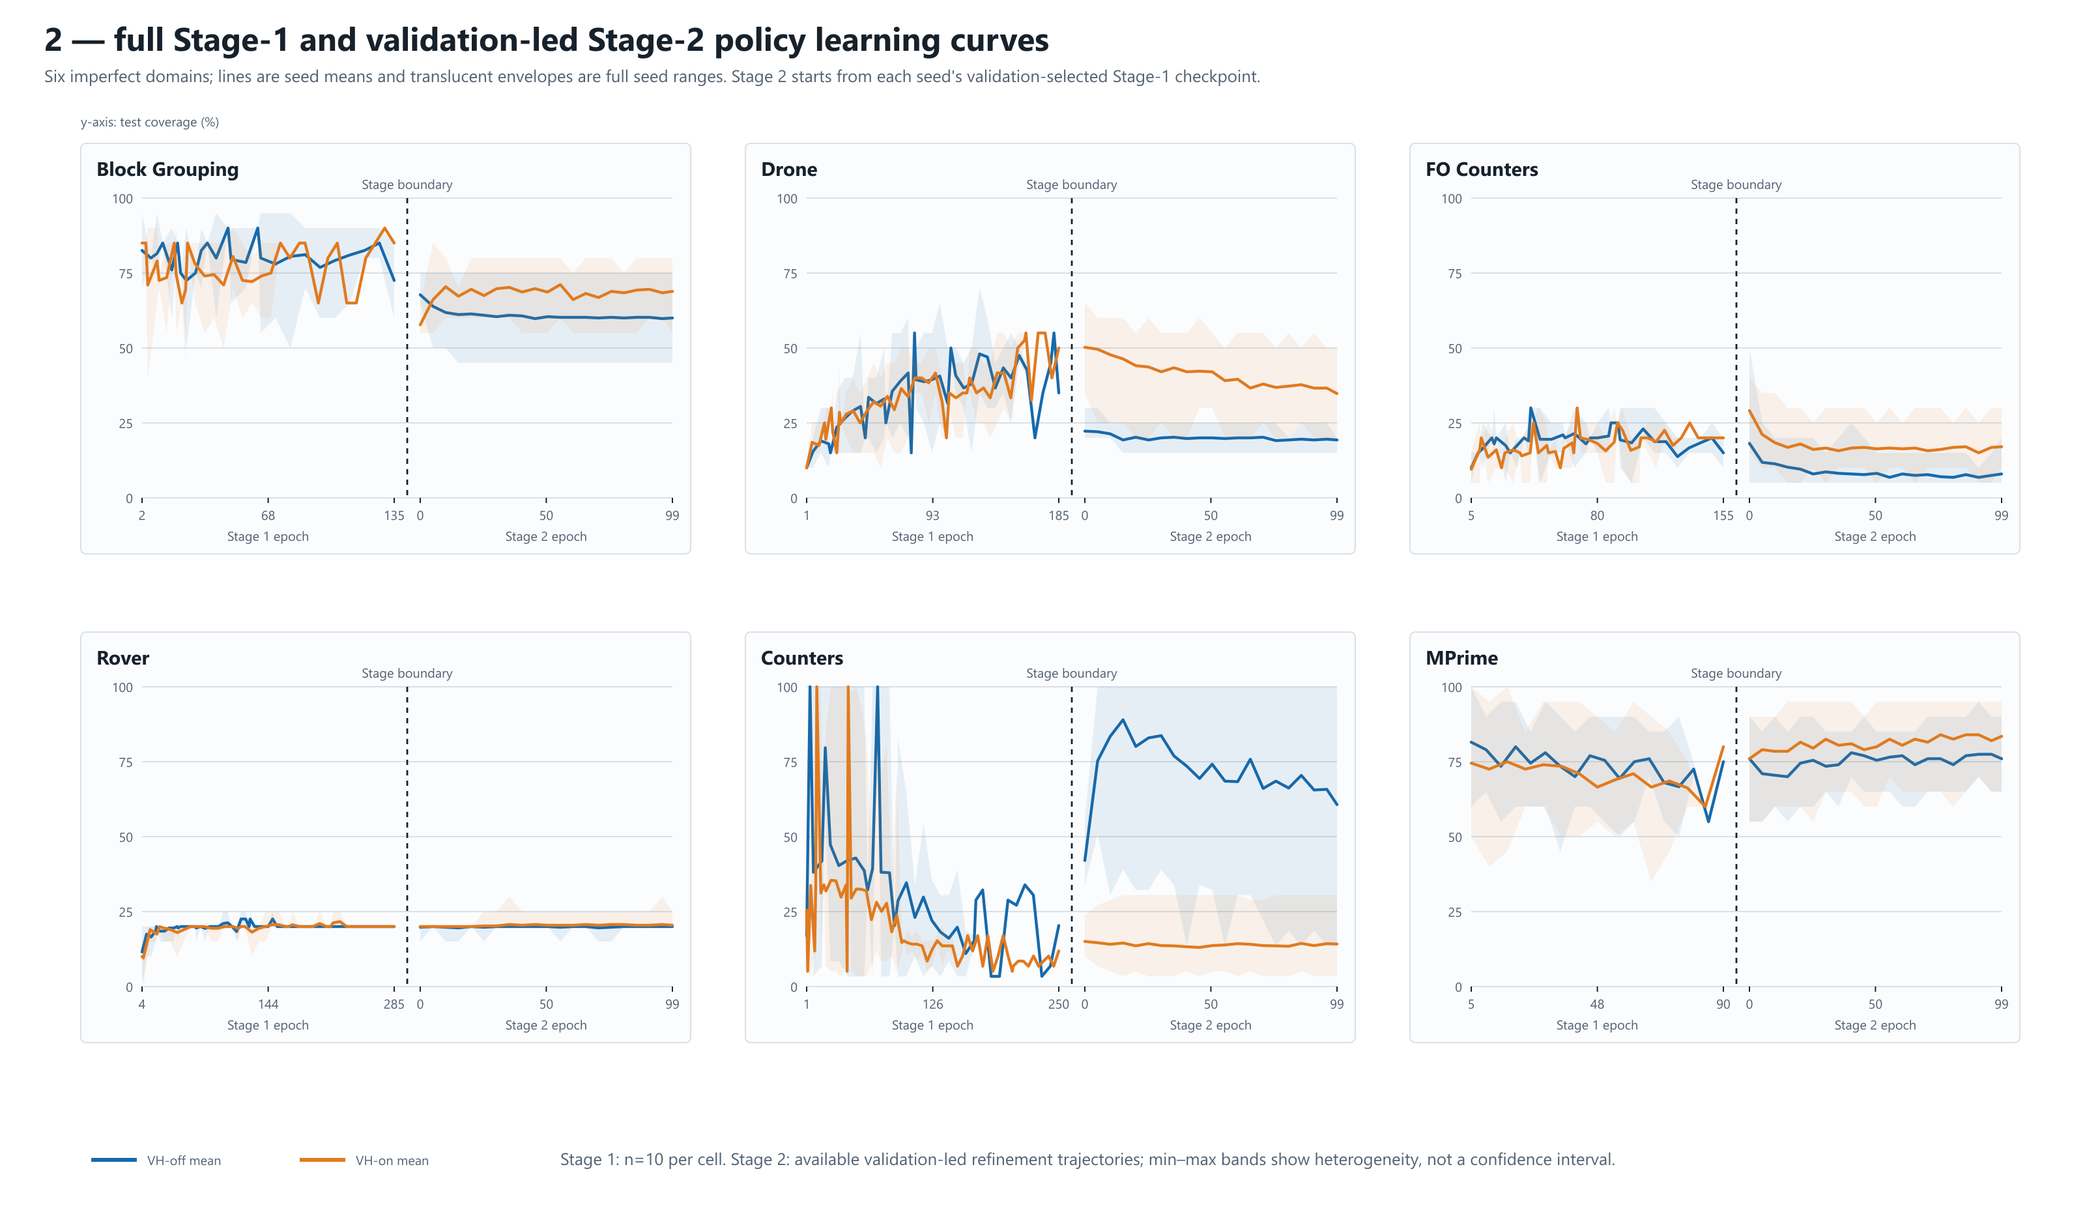
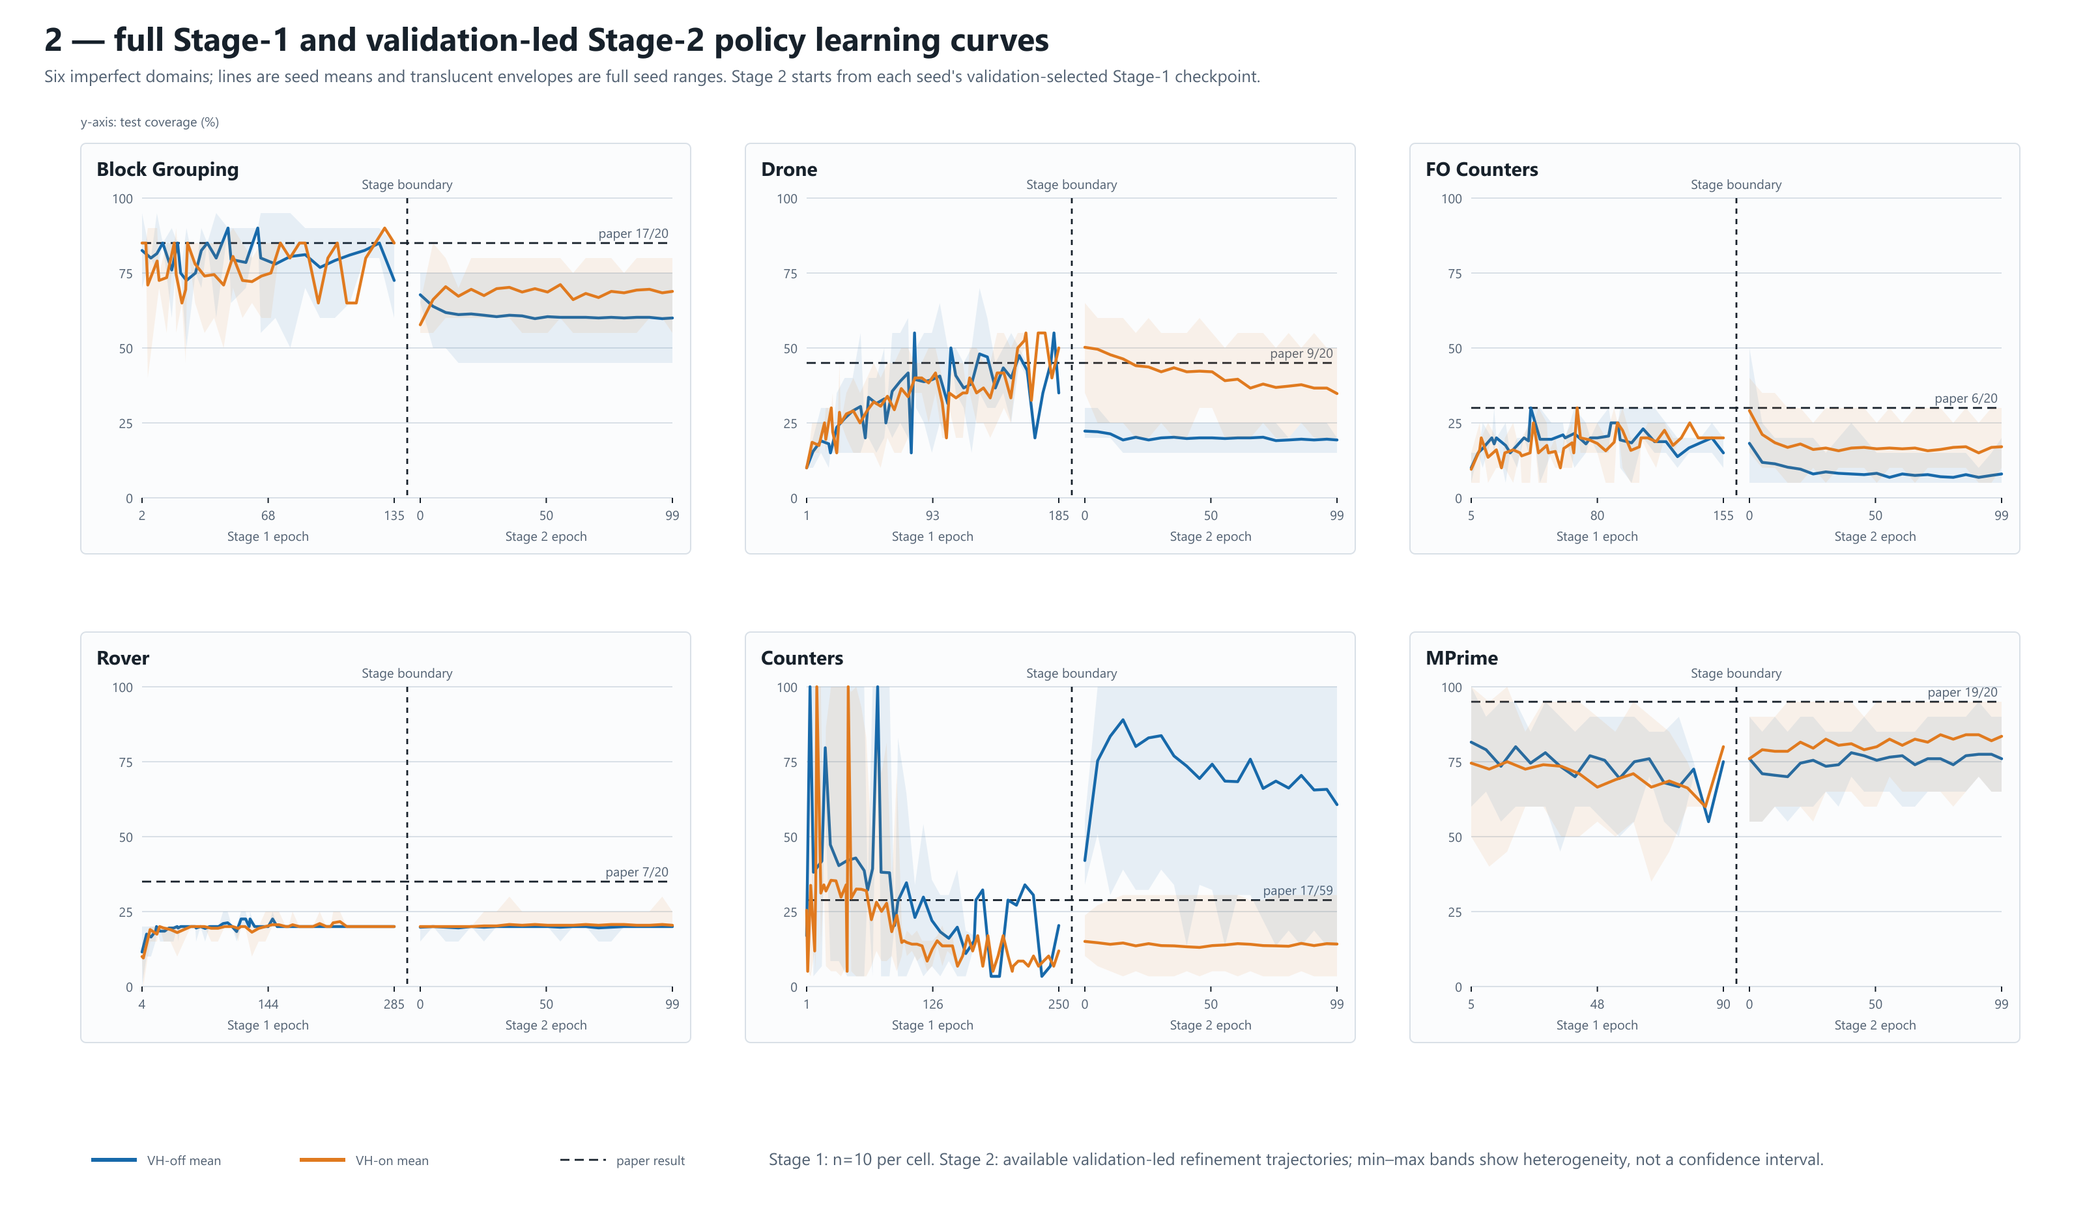
docs: refine advisor figures and PW narrative

diff --git a/scripts/build_advisor_meeting_plots_after_review_20260910.py b/scripts/build_advisor_meeting_plots_after_review_20260910.py
@@ -75,48 +75,51 @@ def save(name: str, parts: list[str]) -> None:
     (OUT / f"{name}.svg").write_text("".join(parts + ["</svg>"]), encoding="utf-8")
 
 
-# 1. Exact, unclipped scorecard. This remains explicitly exploratory because
-# it compares each domain's best observed method rather than one shared method.
-rows = read(BEFORE / "01_domain_scorecard.csv")
+# 1. VH-separated scorecard. The baseline is defined explicitly as the mean
+# test score of each seed's validation-selected Stage-1 checkpoint.
+rows = read(OUT / "01_domain_scorecard_by_vh.csv")
 parts = start(
-    1780, 730, "1 — best observed coverage by domain",
-    "Exploratory best-of-method scorecard. Bars are mean test coverage across the available matched seed set; exact solved/total counts are shown.",
+    1840, 790, "1 — Stage-1 baseline and best observed coverage, separated by value-head mode",
+    "Stage-1 baseline = mean test coverage of each seed's validation-selected Stage-1 checkpoint (n=10 per cell). Best observed may use a different method per cell.",
 )
-x0, x1, y0, row_height = 280, 1120, 118, 60
-for tick in (0, 25, 50, 75, 100):
-    x = x0 + tick / 100 * (x1 - x0)
-    parts += [line(x, y0 - 20, x, y0 + 9 * row_height - 12, GRID), text(x, y0 - 28, f"{tick}%", "small", "middle")]
-for i, row in enumerate(rows):
-    y = y0 + i * row_height
-    total = int(float(row["capacity"]))
-    values = [
-        ("Published Numeric ASNet", float(row["paper_percent"]), "#9aa5b1", float(row["paper_reported"])),
-        ("Stage-1 policy", float(row["stage1_percent"]), ORANGE, float(row["matched_stage1_policy"])),
-        ("Best observed", float(row["best_percent"]), GREEN, float(row["result_6h_or_policy"])),
-    ]
-    parts.append(text(x0 - 15, y + 27, LABEL[row["domain"]], "label", "end"))
-    for j, (_, value, color, exact) in enumerate(values):
-        parts.append(rect(x0, y + j * 12, (x1 - x0) * value / 100, 9, color, radius=2))
-        parts.append(text(x0 + (x1 - x0) * value / 100 + 6, y + j * 12 + 8, f"{exact:.1f}/{total}", "small"))
-    config = row["best_current_configuration"]
-    if len(config) > 62:
-        split = config.rfind(" ", 0, 62)
-        split = 62 if split < 20 else split
-        parts.append(text(1200, y + 17, config[:split], "small"))
-        parts.append(text(1200, y + 32, config[split:].strip(), "small"))
-    else:
-        parts.append(text(1200, y + 25, config, "small"))
+for panel, value_head in enumerate(("off", "on")):
+    px, py, pw, ph = 45 + panel * 900, 105, 850, 595
+    x0, x1, y0, row_height = px + 145, px + 650, py + 55, 58
+    parts += [rect(px, py, pw, ph, "#fbfcfd", GRID, 5), text(px + 18, py + 30, f"VH-{value_head}", "big")]
+    for tick in (0, 25, 50, 75, 100):
+        x = x0 + tick / 100 * (x1 - x0)
+        parts += [line(x, y0 - 22, x, y0 + 9 * row_height - 18, GRID), text(x, y0 - 29, f"{tick}%", "small", "middle")]
+    panel_rows = [row for row in rows if row["value_head"] == value_head]
+    for i, row in enumerate(panel_rows):
+        y = y0 + i * row_height
+        total = int(row["capacity"])
+        baseline = float(row["stage1_validation_selected"])
+        best = float(row["best_observed"])
+        published = float(row["paper_reported"])
+        to_percent = lambda score: score / total * 100
+        paper_x = x0 + to_percent(published) / 100 * (x1 - x0)
+        parts += [
+            text(x0 - 12, y + 17, LABEL[row["domain"]], "small", "end"),
+            rect(x0, y, (x1 - x0) * to_percent(baseline) / 100, 10, ORANGE, radius=2),
+            rect(x0, y + 14, (x1 - x0) * to_percent(best) / 100, 10, GREEN, radius=2),
+            line(paper_x, y - 3, paper_x, y + 27, INK, 1.6, "3 2"),
+            text(x0 + (x1 - x0) * to_percent(baseline) / 100 + 5, y + 9, f"S1 {baseline:g}/{total}", "small"),
+            text(x0 + (x1 - x0) * to_percent(best) / 100 + 5, y + 23, f"best {best:g}/{total}", "small"),
+            text(x0, y + 39, f"best method: {row['best_configuration']}", "small"),
+        ]
 parts += [
-    rect(280, 675, 18, 9, "#9aa5b1"), text(305, 684, "published result", "small"),
-    rect(420, 675, 18, 9, ORANGE), text(445, 684, "best Stage-1 policy", "small"),
-    rect(590, 675, 18, 9, GREEN), text(615, 684, "best observed configuration", "small"),
-    text(980, 684, "Headline: clear coverage gains in Drone, FO Counters and Counters; stable domains remain near ceiling.", "sub"),
+    rect(70, 735, 18, 9, ORANGE), text(96, 744, "validation-selected Stage-1 policy baseline", "small"),
+    rect(365, 735, 18, 9, GREEN), text(391, 744, "best observed configuration", "small"),
+    line(615, 730, 615, 750, INK, 1.6, "3 2"), text(625, 744, "published domain mean (not VH-separated)", "small"),
+    text(980, 744, "Exact solved/total labels are means across matched seeds; Counters uses 59 instances, all other domains use 20.", "sub"),
 ]
 save("01_domain_scorecard", parts)
 
 
 # 2. True Stage-1 and Stage-2 curves with explicit stage-local epoch axes.
 curves = read(BEFORE / "02_two_stage_learning_dynamics.csv")
+paper_rows = read(BEFORE / "01_domain_scorecard.csv")
+paper_by_domain = {row["domain"]: (float(row["paper_reported"]), int(row["capacity"])) for row in paper_rows}
 parts = start(
     1600, 940, "2 — full Stage-1 and validation-led Stage-2 policy learning curves",
     "Six imperfect domains; lines are seed means and translucent envelopes are full seed ranges. Stage 2 starts from each seed's validation-selected Stage-1 checkpoint.",
@@ -135,6 +138,9 @@ for panel, domain in enumerate(["block_grouping", "drone", "fo_counters", "rover
         line(boundary, top, boundary, bottom, INK, 1.4, "4 4"),
         text(boundary, top - 7, "Stage boundary", "small", "middle"),
     ]
+    paper_score, paper_total = paper_by_domain[domain]
+    paper_y = bottom - (paper_score / paper_total * 100) / 100 * (bottom - top)
+    parts += [line(left, paper_y, right, paper_y, INK, 1.4, "7 4"), text(right - 3, paper_y - 4, f"paper {paper_score:g}/{paper_total}", "small", "end")]
     for stage, xa, xb in (("stage1", left, boundary - 10), ("stage2", boundary + 10, right)):
         stage_rows = [r for r in curves if r["domain"] == domain and r["stage"] == stage]
         epochs = [int(r["epoch"]) for r in stage_rows]
@@ -165,7 +171,8 @@ for panel, domain in enumerate(["block_grouping", "drone", "fo_counters", "rover
 parts += [
     line(70, 890, 105, 890, BLUE, 3), text(113, 894, "VH-off mean", "small"),
     line(230, 890, 265, 890, ORANGE, 3), text(273, 894, "VH-on mean", "small"),
-    text(430, 894, "Stage 1: n=10 per cell. Stage 2: available validation-led refinement trajectories; min–max bands show heterogeneity, not a confidence interval.", "sub"),
+    line(430, 890, 465, 890, INK, 1.4, "7 4"), text(473, 894, "paper result", "small"),
+    text(590, 894, "Stage 1: n=10 per cell. Stage 2: available validation-led refinement trajectories; min–max bands show heterogeneity, not a confidence interval.", "sub"),
 ]
 save("02_two_stage_learning_dynamics", parts)
 
@@ -255,8 +262,8 @@ forest_plot("Stage 2", "03b_stage2_mcts_cutoff_forest", "3b — Stage-2 policy v
 # definition of the experiment and of preservation.
 preserve = read(BEFORE / "04_preserve3_validation_seed_robustness.csv")
 parts = start(
-    1400, 710, "4 — PRESERVE-3 validation-led seed robustness",
-    "Delivery, TPP and Zenotravel began near ceiling. Each point is one matched seed's change in solved test instances from Stage 1 to validation-led Stage 2.",
+    1400, 710, "4 — PRESERVE-3 seed robustness",
+    "Delivery, TPP and Zenotravel began near ceiling. Each point is one matched seed's change in solved test instances from Stage 1 to Stage 2.",
 )
 left, right, top = 300, 1140, 135
 scale = lambda value: left + (value + 12) / 20 * (right - left)

diff --git a/experiment_tracking/mcts_progressive_widening_cross_domain/progressive_widening_overall_report_20260909.md b/experiment_tracking/mcts_progressive_widening_cross_domain/progressive_widening_overall_report_20260909.md
@@ -1,0 +1,136 @@
+# Progressive widening: complete experiment narrative
+
+This report distinguishes PW20 and PW70. They are never pooled. `PW20` means
+20 MCTS simulations per external action; `PW70` means 70 simulations. The
+standard promoted schedule is `Kmin=3`, `c=0.6`, `alpha=0.5`, `Kmax=20`, with
+SAFE external action selection.
+
+## Why progressive widening was tested
+
+Fixed top-k search creates every permitted child immediately. Progressive
+widening begins with a small policy-ranked action set and admits additional
+actions as visits accumulate. The intended trade-off was to preserve most or
+all of fixed-search coverage while reducing generated states, retained nodes,
+memory and runtime.
+
+## Experiment sequence
+
+1. **Drone pilot, 10 matched seeds per arm.** Compared fixed top-5, historical
+   fixed top-20, PW `c=0.6`, and PW `c=1.0`, all with 70 simulations.
+2. **Drone sensitivity.** Tested SAFE-PW baseline, `alpha=0.65`, 140
+   simulations and `Kmin=3`. Kmin=3 was the only promising direction and was
+   expanded to four matched seeds per VH mode.
+3. **Cross-domain two-seed screen.** Block Grouping and Counters accidentally
+   used PW20 because they inherited the narrow 5/20 comparator budget. FO
+   Counters and Rover correctly used PW70. This incident is documented and the
+   budgets remain explicitly separated.
+4. **Corrected PW70 screen.** Reran Block Grouping and Counters with 70
+   simulations.
+5. **Five- then ten-seed PW70 confirmation.** Promoted FO Counters and Rover to
+   ten matched seeds per VH mode. Counters Stage-2 received five-seed PW70
+   confirmation but did not qualify for further expansion.
+6. **Focused diagnostics.** Tested PW20/PW70 on three exact Counters snapshots
+   where fixed narrow search lost policy successes, and all four search
+   variants on the catastrophic TPP/off seed.
+
+## Drone: efficiency gain, insufficient coverage
+
+| Arm | n | Mean coverage | Mean whole-job runtime | Change versus fixed top-20 |
+|---|---:|---:|---:|---:|
+| Historical fixed top-20 | 10 | 8.6/20 | 11.83h | baseline |
+| Fixed top-5 | 10 | 8.7/20 | 11.24h | +0.1 |
+| PW70, c=0.6 | 10 | 6.7/20 | 8.12h | -1.9; 95% CI [-3.35,-0.45] |
+| PW70, c=1.0 | 10 | 6.2/20 | 5.03h | -2.4; 95% CI [-3.92,-0.88] |
+
+The original PW schedules were genuinely cheaper: retained nodes fell from
+3,622,099 for fixed top-5 to 692,524 (`c=.6`) and 319,398 (`c=1.0`). The price
+was a statistically significant coverage loss.
+
+Kmin=3 improved the balance:
+
+| Arm | n | Mean coverage | Mean whole-job runtime |
+|---|---:|---:|---:|
+| Policy | 8 | 7.0/20 | 0.066h |
+| Fixed top-20 | 8 | 10.5/20 | 11.76h |
+| PW70 Kmin=3 | 8 | 9.5/20 | 9.99h |
+
+Successful-instance runtime distributions show where the efficiency gain lies:
+
+| Arm | Successful instances | Median | Mean | P90 | Maximum |
+|---|---:|---:|---:|---:|---:|
+| Fixed top-20 | 84 | 130s | 395s | 893s | 6,127s |
+| PW70 Kmin=3 | 76 | 94s | 147s | 318s | 594s |
+
+Kmin=3 therefore shortened the successful-instance tail substantially, but
+still solved eight fewer matched instances than fixed search. Drone does not
+support replacing fixed MCTS with this PW schedule.
+
+## Block Grouping and Counters screen
+
+PW20 was useful as a budget-matched narrow-search diagnostic, not as evidence
+about standard PW70. Block Grouping was unpromising: it did not improve
+coverage consistently and often increased whole-job runtime. For example,
+BG/off fixed 5/20 averaged about 7h39m versus 12h26m for PW20; BG/on averaged
+8h38m versus 9h22m.
+
+The time was not primarily Python selection. In the instrumented BG PW20 jobs,
+successor generation used 55.2% of completed wall time, estimator/evaluation
+32.4%, network inference 6.9%, selection 4.4%, and backpropagation 0.3%.
+
+Counters produced isolated strong recoveries—most notably one Stage-2/off seed
+where policy and PW20 scored 59/59 while fixed narrow scored 49/59, with PW20
+finishing in 3h47m versus 18h05m fixed. Across five PW70 seeds, however:
+
+| VH | Policy | Fixed narrow 30m / 2h / 6h | PW70 30m / 2h / 6h | Conclusion |
+|---|---:|---:|---:|---|
+| off | 37.8/59 | 34.6 / 36.4 / 36.4 | 29.4 / 33.6 / 36.4 | Fixed parity only at 6h; below policy |
+| on | 32.4/59 | 27.4 / 34.2 / 35.6 | 22.0 / 28.4 / 31.4 | Below policy and fixed |
+
+Thus, PW can repair particular narrow-search failures but was not reliably the
+best Counters configuration.
+
+## Ten-seed PW70 result: FO Counters succeeds, Rover reaches parity
+
+| Cell | Policy | Fixed 30m / 2h / 6h | PW70 30m / 2h / 6h | PW-policy 6h [95% CI]; Holm p | Conclusion |
+|---|---:|---:|---:|---|---|
+| FO/off | 4.2 | 7.5 / 7.8 / 7.8 | 8.4 / 8.4 / 8.4 | +4.2 [3.26,5.14]; .008 | Significant gain; fixed parity |
+| FO/on | 3.7 | 5.3 / 5.7 / 5.7 | 7.3 / 7.3 / 7.3 | +3.6 [2.70,4.50]; .008 | Significant gain; higher mean than fixed |
+| Rover/off | 4.0 | 4.8 / 5.0 / 5.0 | 4.7 / 4.7 / 4.7 | +0.7 [.02,1.38]; .250 | Fixed parity; not significant |
+| Rover/on | 3.8 | 4.4 / 4.4 / 4.4 | 4.5 / 4.6 / 4.6 | +0.8 [-.08,1.68]; .250 | Fixed parity; not significant |
+
+Almost all successful FO/Rover PW70 plans were already found inside 30 minutes:
+FO is identical at 30m, 2h and 6h; Rover/on adds only 0.1 plan after 30m. Whole
+allocations nevertheless ranged from roughly 7.5h to 28h because unsuccessful
+instances can consume long timeouts. This separates **time to find successful
+plans** from **time to certify failures**.
+
+FO/off currently includes the declared 7/20 OOM-partial seed with one
+unclassified instance counted unsuccessful. Exact recovery of that instance is
+running separately; a success would raise the ten-seed mean from 8.4 to 8.5.
+
+## Focused negative diagnostics
+
+- On three Counters snapshots where fixed narrow search lost severe policy
+  coverage, neither PW20 nor PW70 restored every policy success. PW20 seed
+  923500475 reached 48/59 and was the strongest partial recovery.
+- On the catastrophic TPP/off Stage-2 seed, policy scored 9/20, fixed narrow
+  4/20, PW20 10/20, fixed normal 4/20 and PW70 7/20. Search could not generally
+  repair the collapsed policy.
+
+## Defensible overall conclusion
+
+Progressive widening is **not a universal replacement for fixed MCTS**.
+
+- It is a clear efficiency/coverage failure under the original Drone schedule.
+- Kmin=3 improves Drone efficiency but remains below fixed-search coverage.
+- It is not consistently useful for Block Grouping or Counters.
+- It is strongly supported for FO Counters: significant gains over policy,
+  fixed-search parity or better means, and essentially all successes inside
+  30 minutes.
+- In Rover it is best described as fixed-search parity, not a demonstrated
+  improvement.
+
+Authoritative row-level sources are `pw70_ten_seed_results_latest.csv`,
+`pw70_ten_seed_statistics_latest.csv`, `../mcts_progressive_widening_pilot/summary.csv`,
+`../mcts_progressive_widening_sensitivity/kmin3_runtime_summary.csv`, and
+`terminal_results_20260901.csv`.

diff --git a/experiment_tracking/advisor_report_20260909_current.md b/experiment_tracking/advisor_report_20260909_current.md
@@ -173,8 +173,8 @@ ambiguities without changing the underlying result rows.
 
 | Revised view | File | Question answered |
 |---|---|---|
-| Best observed domain scorecard | `after_review/01_domain_scorecard.png` | Where did we beat Stage 1 and the published mean? |
-| Full two-stage learning dynamics | `after_review/02_two_stage_learning_dynamics.png` | How do complete Stage-1 and validation-led Stage-2 policy curves differ? |
+| VH-separated domain scorecard | `after_review/01_domain_scorecard.png` | For each VH mode, where did the best observed method beat the validation-selected Stage-1 baseline and published domain mean? |
+| Full two-stage learning dynamics | `after_review/02_two_stage_learning_dynamics.png` | How do complete Stage-1 and validation-led Stage-2 policy curves differ, relative to the published score? |
 | Stage-1 inference-time MCTS | `after_review/03a_stage1_mcts_cutoff_forest.png` | Which policy cells benefit at 30m, 2h and 6h? |
 | Stage-2 inference-time MCTS | `after_review/03b_stage2_mcts_cutoff_forest.png` | Does search recover or improve refined policies? |
 | PRESERVE-3 validation-led robustness | `after_review/04_preserve3_validation_seed_robustness.png` | Are near-perfect policies preserved seed-by-seed? |
@@ -204,6 +204,14 @@ No new training is involved. The next decision is whether both frozen
 replicates agree on checkpoint and anchor rankings. Only then should MPrime
 checkpoints/coefficients be frozen and the Stage-2 branches released; the
 eventual 40 MCTS comparisons remain deliberately unsubmitted.
+
+The denominator is exact: the corrected Stage-1 campaigns contain 290 saved
+checkpoints across 20 lineages, while validation-led and terminal-led Stage 2
+contain 840 saved checkpoints across 40 lineages (2 branches × 2 VH modes ×
+10 seeds × 21 checkpoints). That gives 1,130 unique checkpoints across 60
+lineages. Each checkpoint is evaluated on both independently frozen Phase-B
+validation replicates, hence 1,130 × 2 = 2,260 checkpoint–validation-set
+evaluations.
 
 #### ANCHOR-KL-CONTROL — adaptive KL screen
 
@@ -245,6 +253,10 @@ before any larger follow-up.
 | Experiment | Current result | What remains | Consequence |
 |---|---|---|---|
 | FO/off PW70 seed 2082152039 | Declared seed remains 7/20 | Correct `instance_15.pddl` recovery job 21157787 is running | Success would move this seed to 8/20 and the ten-seed mean from 8.40 to 8.50; failure leaves all published statistics unchanged |
+
+At 2026-09-09 23:07 IDT the corrected recovery had run for 2h08m and had not
+yet emitted an outcome. The exact instance and configuration were confirmed in
+the live log; this is not a stale or misindexed rerun.
 
 The prior 40-GiB attempt 21154686 did not test the intended instance: evaluator
 slot 15 maps to `instance_16.pddl` because FO's test list begins at instance 2.
@@ -297,6 +309,11 @@ cutoff. Full cutoff CIs/p-values are in `pw70_ten_seed_statistics_latest.csv`.
 
 **Conclusion:** PW70 is a strong FO Counters result and a Rover parity result.
 It is not a universal replacement for fixed search.
+
+The complete experiment sequence, coverage tables, whole-job timing,
+successful-instance runtime quantiles, node counts and failure interpretation
+are consolidated in
+`mcts_progressive_widening_cross_domain/progressive_widening_overall_report_20260909.md`.
 
 ### Completed preservation experiments
 
